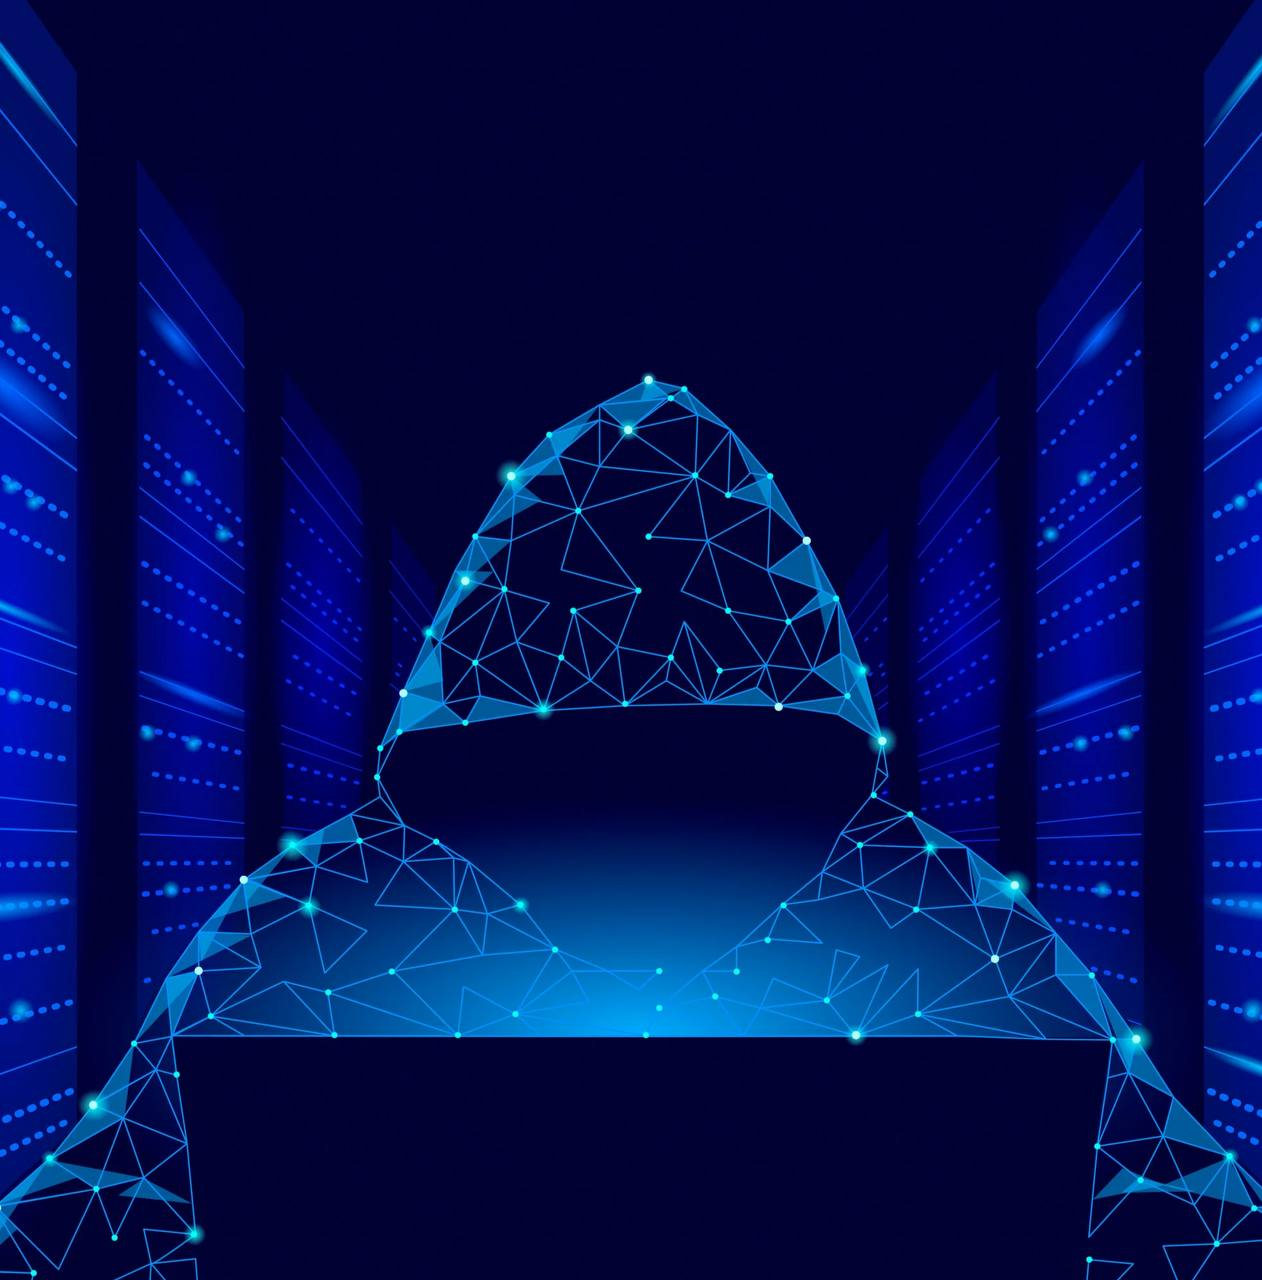
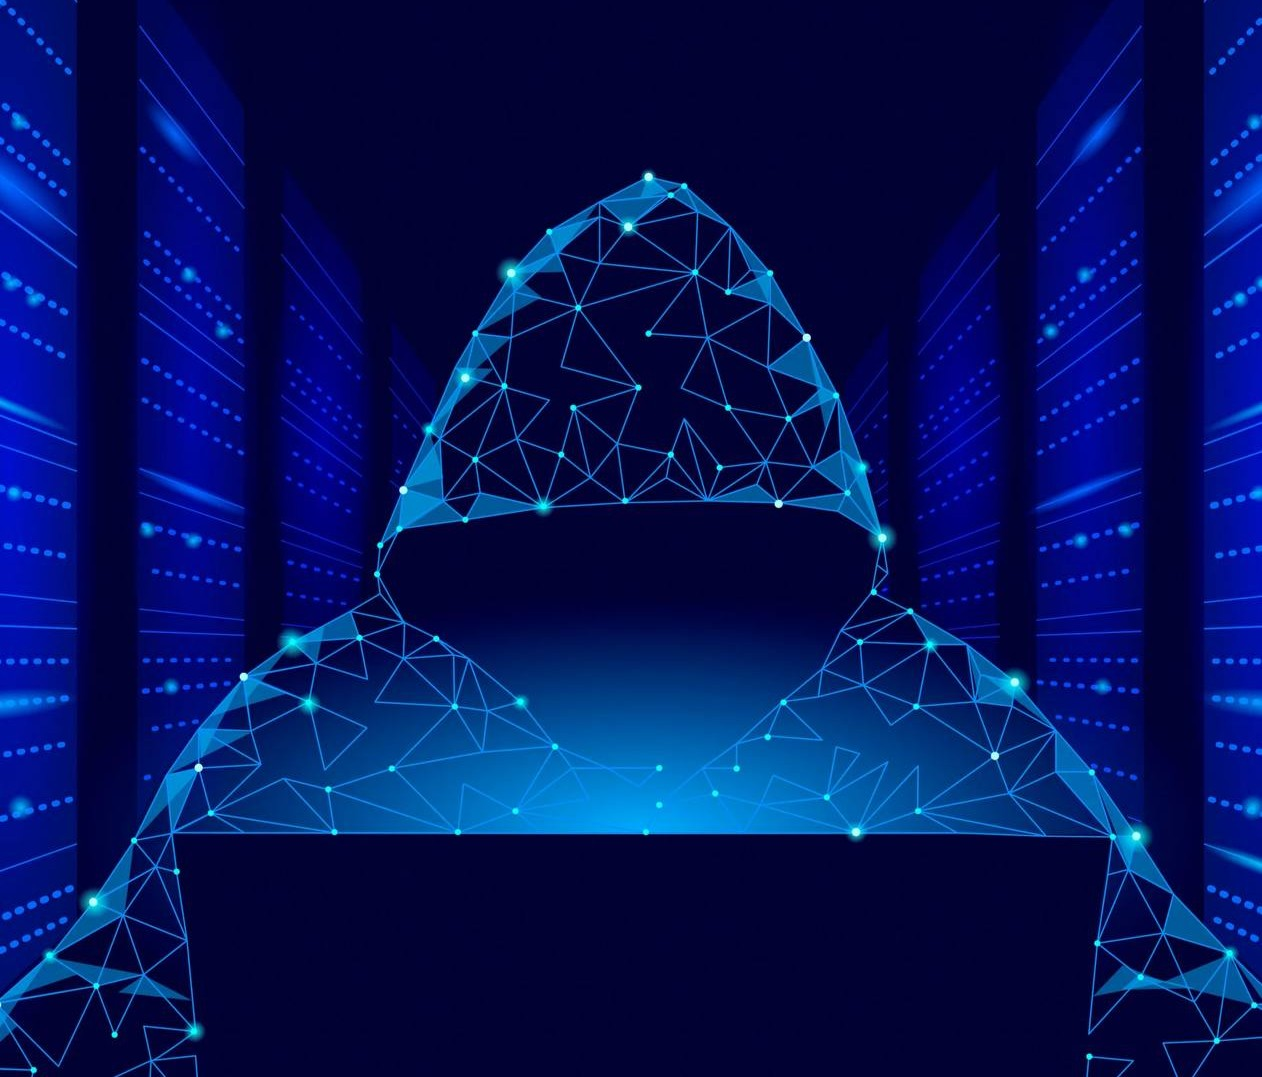
Update portfolio with new photos and content improvements

diff --git a/index.html b/index.html
@@ -46,7 +46,7 @@
             </div>
         </div>
         <div class="home-img">
-            <img src="Photos/Self-photo2.jpg" alt="">
+            <img src="Photos/cover2.jpg" alt="">
         </div>
     </section>
 
@@ -55,7 +55,7 @@
         <h2 class="heading"><i class="fa-solid fa-user"></i> About <span style="color: rgb(97, 53, 216);;">Me</span></h2>
         <div class="about-container">
             <div class="about-image">
-                <img src="Photos/cover.jpg" alt="Profile Image">
+                <img src="Photos/Self-photo1.jpg" alt="Profile Image">
             </div>
             <div class="about-content">
                 <h3><strong>Hussam Almajnuni</strong></h3>
